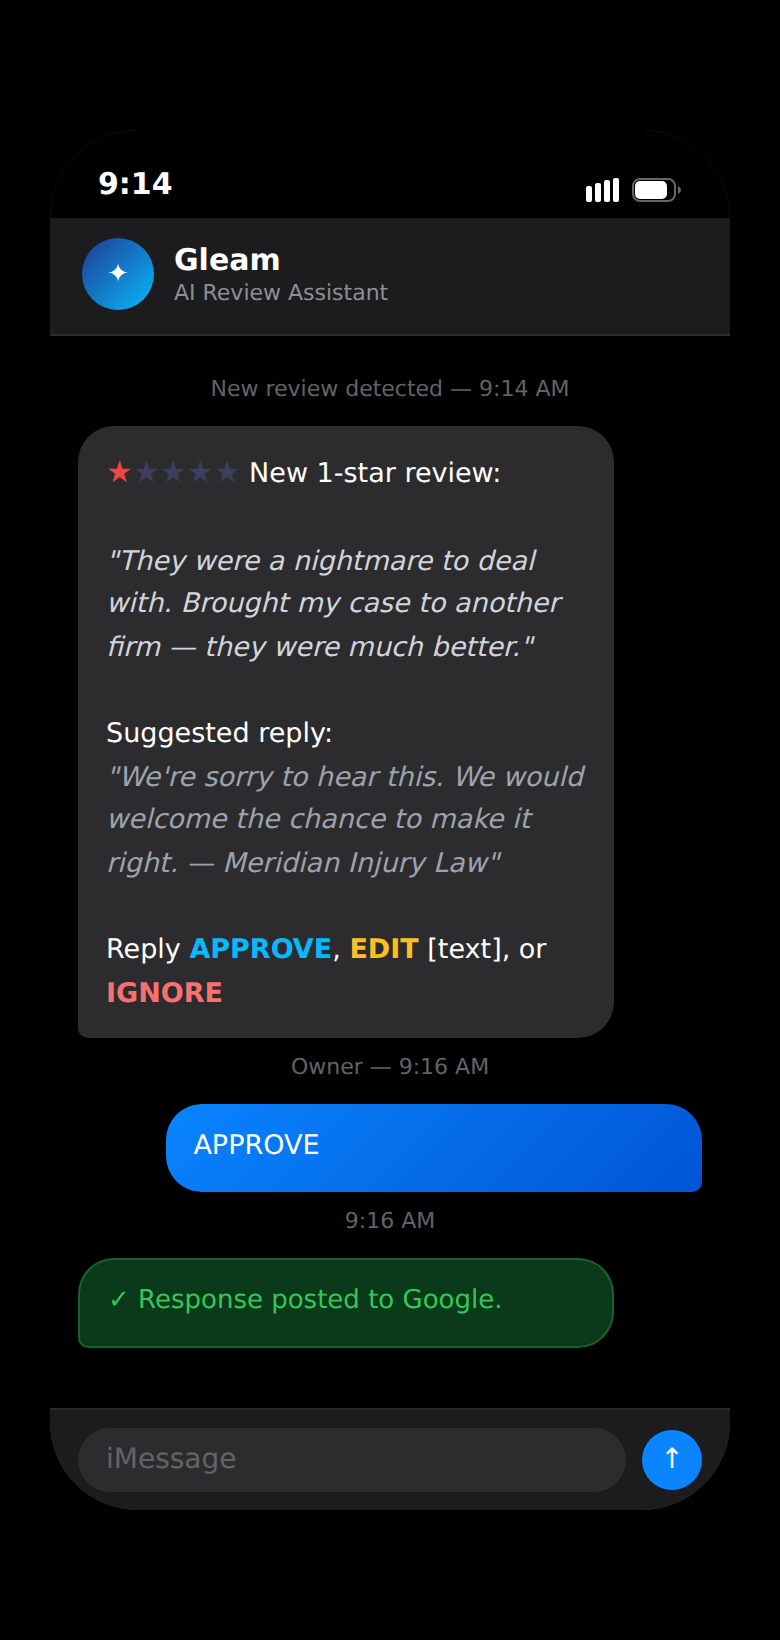
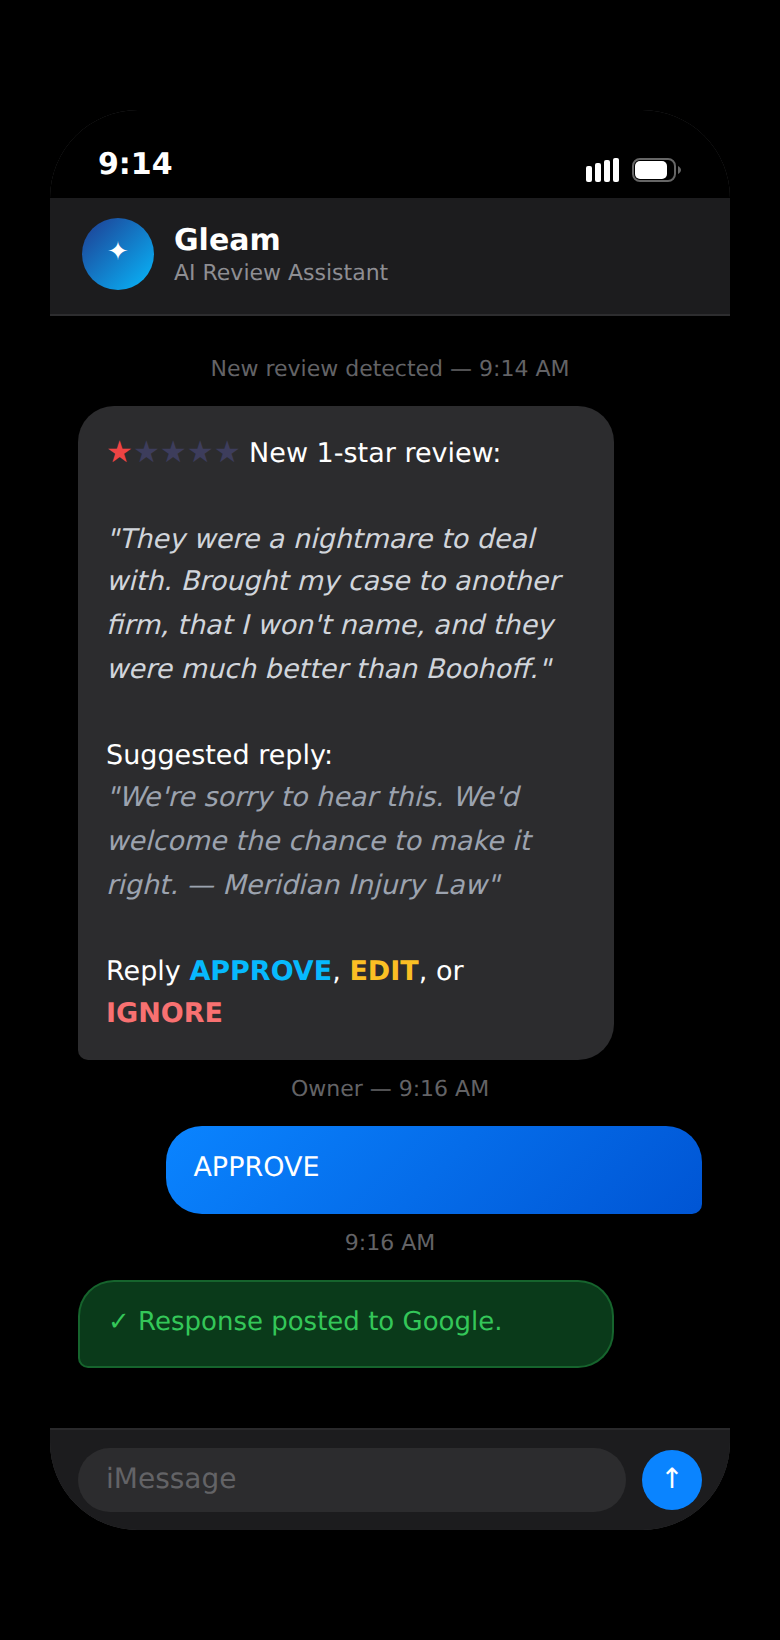
Fix review text to exact verbatim Boohoff source (word for word)

Changed region(s): [[0.0615, 0.0933, 0.9538, 0.9329], [0.6769, 0.5598, 0.7077, 0.5909]]

diff --git a/negative-review-demo.html b/negative-review-demo.html
@@ -143,7 +143,7 @@
           Google
         </div>
       </div>
-      <p class="rtext">&ldquo;They were a nightmare to deal with. Brought my case to another firm, that I won't name, and they were much better than Meridian Injury Law.&rdquo;</p>
+      <p class="rtext">&ldquo;They were a nightmare to deal with. Brought my case to another firm, that I won't name, and they were much better than Boohoff.&rdquo;</p>
     </div>
 
     <div class="connector">↓</div>
@@ -190,7 +190,7 @@ Reply APPROVE to post this response, or EDIT [your text] to customize.</div>
           Google
         </div>
       </div>
-      <p class="rtext">&ldquo;I am deeply disappointed in them. I was working with them and sending them all the information they needed yet I got nothing in return. I expected this to go better and it did not. It has been two weeks with no responses and they have just stopped communicating.&rdquo;</p>
+      <p class="rtext">&ldquo;I am deeply disappointed in them. I was working with them and sending them all the information they needed yet i got nothing in return. I expected this to go better and it did not. It has been two weeks with no responses and they have just&hellip;&rdquo;</p>
     </div>
 
     <div class="connector">↓</div>
@@ -284,7 +284,7 @@ Reply APPROVE to post this response, or EDIT [your text] to customize.</div>
           Google
         </div>
       </div>
-      <p class="rtext">&ldquo;Overall I received a settlement that I am happy with. And for that reason I am giving it a 5 star. That being said, I think Meridian Injury Law can do a lot better in terms of communication with their clients.&rdquo;</p>
+      <p class="rtext">&ldquo;Overall I received a settlement that I am happy with. And for that reason I am giving it a 5 star. That being said, I think Boohoff can do a lot better in terms of communication with their clients.&rdquo;</p>
     </div>
 
     <div class="connector">↓</div>
